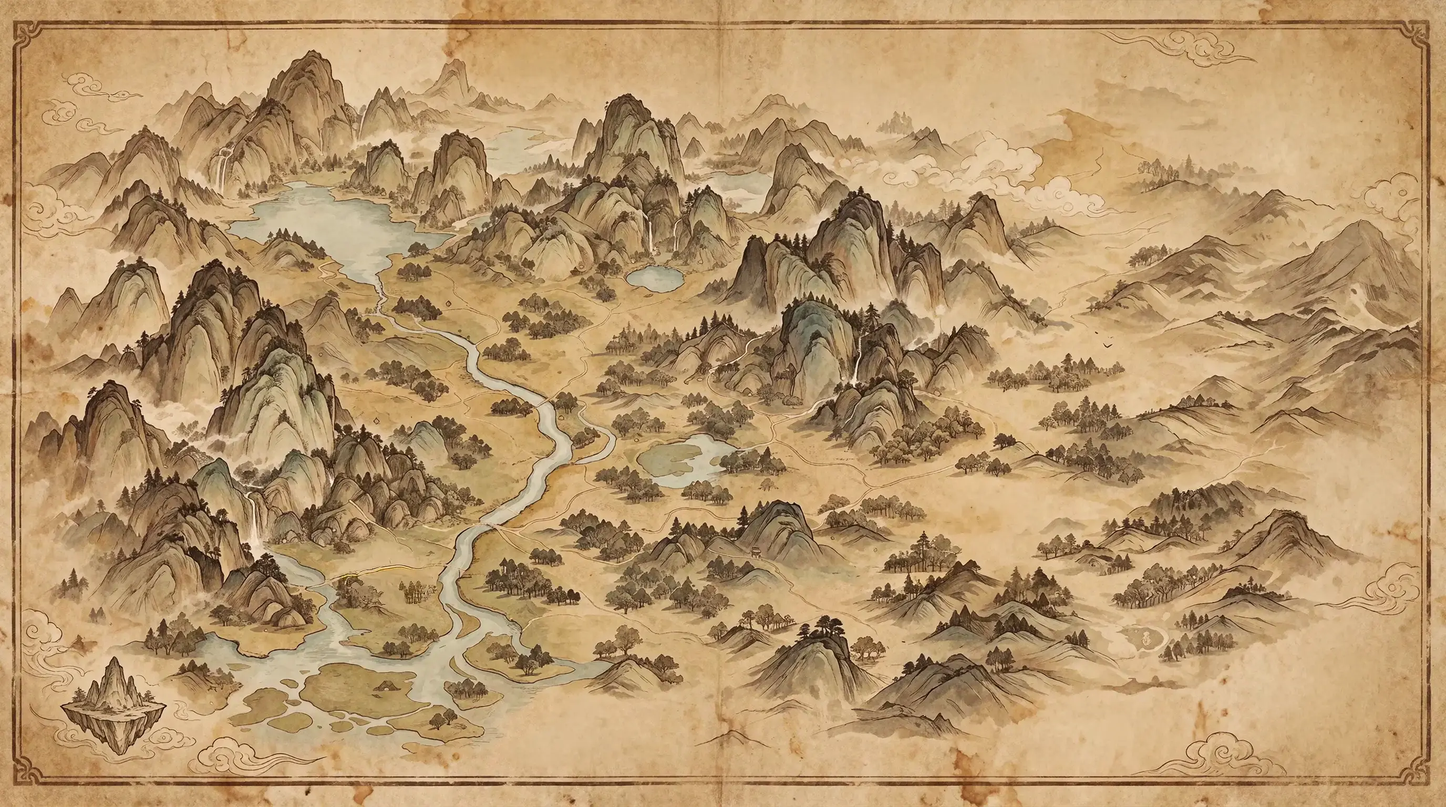
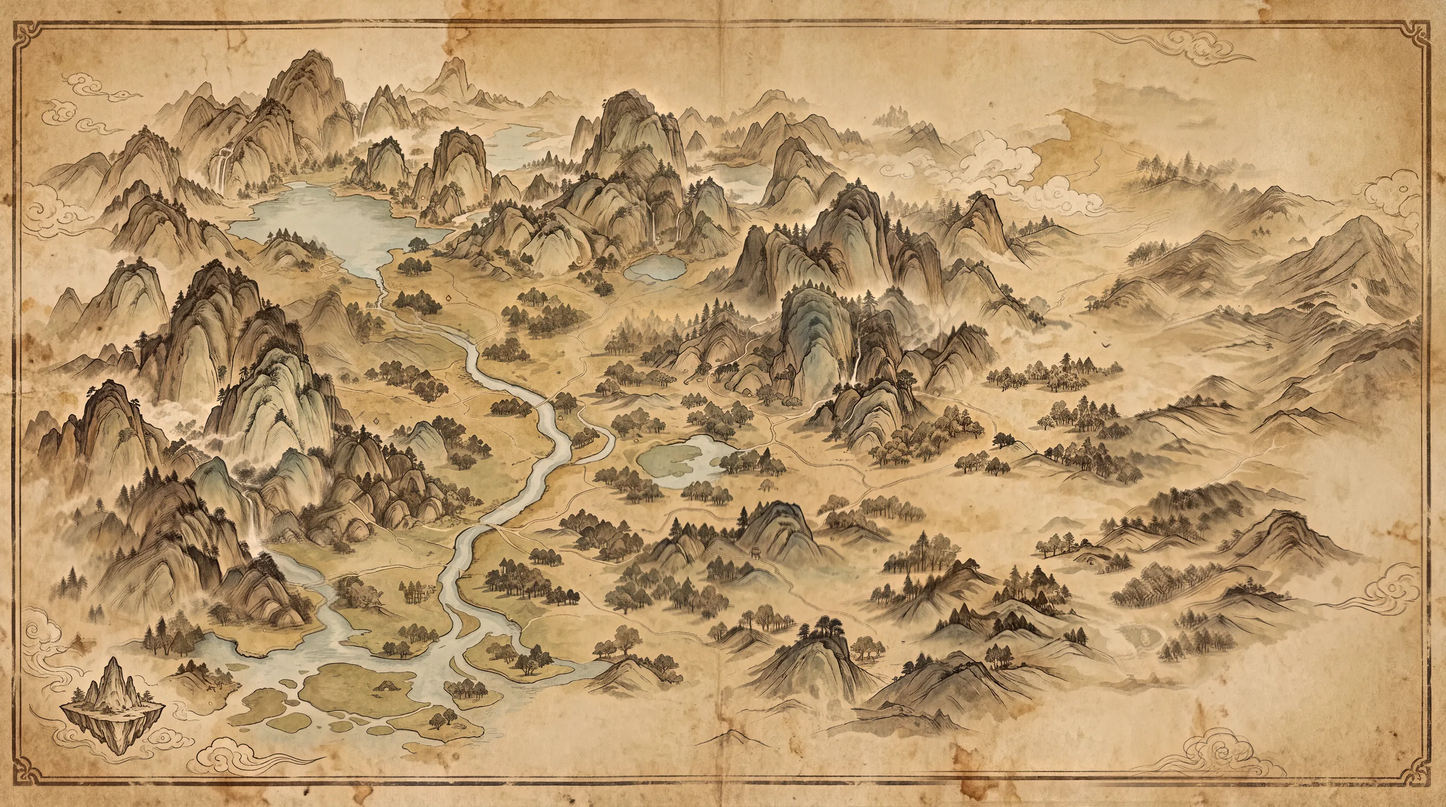
Bản đồ: vẽ lại bản đã khám phá và chưa khám phá bằng Qwen 2.1 đầy đủ, nét sắc hơn, cỡ 4128x2304, giữ nguyên địa hình; công cụ ban-do-ve-lai.py, thu-model.py

diff --git a/tools/ban-do-ve-lai.py b/tools/ban-do-ve-lai.py
@@ -1,0 +1,67 @@
+# Vẽ lại bản đồ đã khám phá bằng Qwen Image 2.1 (bản đầy đủ) theo từng mảnh có gối, giữ nguyên vị trí địa hình,
+# phóng 1.5 lần; bản chưa khám phá làm ra từ bản mới (nét mờ) cho đồng bộ.
+# python tools/ban-do-ve-lai.py ve [i ...]   -> src/assets-goc/ban-do/ve/<i>.png  (mảnh)
+# python tools/ban-do-ve-lai.py ghep          -> ghép mảnh thành ảnh mới (scratchpad/OUT)
+import json, os, sys, time, urllib.request, importlib.util
+import numpy as np
+from PIL import Image
+sp = importlib.util.spec_from_file_location('nv', 'tools/nv-comfy.py'); nv = importlib.util.module_from_spec(sp); sp.loader.exec_module(nv)
+AN = os.environ.get('BAN') == 'an'  # BAN=an: vẽ lại bản CHƯA khám phá từ chính nó (giữ kiểu phác mờ và hình trang trí)
+SRC = 'src/assets-goc/ban-do/' + ('Hidden-map.webp' if AN else 'Hidden-map - Backup.webp'); TMP = 'src/assets-goc/ban-do/' + ('ve-an/' if AN else 've/'); os.makedirs(TMP, exist_ok=True)
+W, H, T, OV = 4128, 2304, 1024, 160
+xs = list(range(0, W - T, T - OV)) + [W - T]; ys = list(range(0, H - T, T - OV)) + [H - T]
+TILES = [(x, y) for y in ys for x in xs]
+P = ('Repaint this piece of a hand-painted old sepia parchment ink-wash fantasy map at higher quality and sharper resolution. '
+     'Keep the composition EXACTLY: every mountain, ridge, river, lake, road, tree and cloud stays at the same position, same size and same shape; do not add or remove anything, do not move anything. '
+     'Use crisp, confident brown-black ink linework with natural brush strokes, soft sepia and faded grey-green ink washes on aged paper, consistent with a classical Chinese shan-shui map. No text.')
+if AN: P = ('Repaint this piece of a faded old sepia parchment sketch map at higher quality and sharper resolution. '
+     'Keep the composition EXACTLY: every mountain, river, tree, building, creature and ornament stays at the same position, same size and same shape; do not add or remove anything. '
+     'Keep it a light, faded, delicate pencil-and-ink sketch on stained aged paper: thin pale brown lines, very light washes, low contrast, same pale colors as the original. No new text.')
+def ve(ids):
+    big = Image.open(SRC).convert('RGB').resize((W, H), Image.BICUBIC)
+    pend = []
+    for i in ids:
+        x, y = TILES[i]; fn = nv.upload(f'bd-ve-{"an-" if AN else ""}{i}.png', big.crop((x, y, x + T, y + T)))
+        w = nv.wf(fn, P, 900 + i, f'bd-ve-{"an-" if AN else ""}{i}')
+        w['1']['inputs']['unet_name'] = 'qwen-image-2.1-UC-int8_convrot.safetensors'
+        w['12'] = {'class_type': 'BasicScheduler', 'inputs': {'model': ['2', 0], 'scheduler': 'simple', 'steps': 25, 'denoise': 1.0}, '_meta': {'title': 'Scheduler'}}
+        w['8']['inputs']['resolution'] = T
+        pend.append((i, nv.post('/prompt', json.dumps({'prompt': w}).encode(), 'application/json')['prompt_id']))
+    for i, pid in pend:
+        while True:
+            hi = json.load(urllib.request.urlopen(f'{nv.URL}/history/{pid}')).get(pid)
+            if hi and hi.get('outputs'): break
+            if hi and hi.get('status', {}).get('status_str') == 'error': raise SystemExit(f'loi {i}')
+            time.sleep(3)
+        f = hi['outputs']['15']['images'][0]
+        urllib.request.urlretrieve(f"{nv.URL}/view?filename={f['filename']}&subfolder={f.get('subfolder','')}&type=output", TMP + f'{i}.png')
+        print('xong', i, Image.open(TMP + f'{i}.png').size, flush=True)
+def mo(a, r=24):
+    from PIL import ImageFilter
+    return np.asarray(Image.fromarray(a.astype(np.uint8)).filter(ImageFilter.GaussianBlur(r)), np.float32)
+def ghep(out):
+    big = np.asarray(Image.open(SRC).convert('RGB').resize((W, H), Image.BICUBIC), np.float32)
+    acc = np.zeros((H, W, 3), np.float32); wt = np.zeros((H, W, 1), np.float32)
+    r = np.minimum(np.arange(T) + 1, T - np.arange(T)).astype(np.float32); r = np.clip(r / OV, 0.02, 1)
+    m = (r[:, None] * r[None, :])[..., None]
+    for i, (x, y) in enumerate(TILES):
+        t = np.asarray(Image.open(TMP + f'{i}.png').convert('RGB').resize((T, T), Image.LANCZOS), np.float32)
+        g = big[y:y + T, x:x + T]; t = t - mo(t) + mo(g)  # giữ tông màu mảng lớn của bản cũ, lấy nét mới
+        acc[y:y + T, x:x + T] += t * m; wt[y:y + T, x:x + T] += m
+    Image.fromarray(np.clip(acc / wt, 0, 255).astype(np.uint8)).save(out)
+def an(src, out):
+    """Bản chưa khám phá: nét của bản mới in mờ lên giấy trơn (Transition-map), không màu."""
+    a = np.asarray(Image.open(src).convert('RGB'), np.float32) / 255
+    L = a @ np.array([0.3, 0.59, 0.11], np.float32)
+    nen = mo(L[..., None].repeat(3, 2) * 255, 40)[..., 0] / 255
+    muc = np.clip((nen - L) / np.maximum(nen, 0.2), 0, 1) ** 0.9   # độ đậm nét so với giấy quanh nó
+    giay = np.asarray(Image.open('src/assets-goc/ban-do/Transition-map.webp').convert('RGB').resize((a.shape[1], a.shape[0]), Image.BICUBIC), np.float32) / 255
+    mau = np.array([0.33, 0.24, 0.15], np.float32)  # mực nâu nhạt
+    o = giay * (1 - 0.62 * muc[..., None]) + mau * 0.62 * muc[..., None] * 0.35
+    Image.fromarray(np.clip(o * 255, 0, 255).astype(np.uint8)).save(out)
+if __name__ == '__main__':
+    c = sys.argv[1]
+    if c == 've': ve([int(a) for a in sys.argv[2:]] or list(range(len(TILES))))
+    elif c == 'ghep': ghep(sys.argv[2])
+    elif c == 'an': an(sys.argv[2], sys.argv[3])
+    print(len(TILES), 'manh')

diff --git a/tools/thu-model.py b/tools/thu-model.py
@@ -1,0 +1,58 @@
+# So sánh mô hình: vẽ thành / tông môn / xóm lên một mảnh bản đồ thật (đã khám phá) ở độ phân giải cao.
+# python tools/thu-model.py turbo full h3   -> scratchpad/thu-<model>.png
+import json, os, sys, time, urllib.request, importlib.util
+from PIL import Image, ImageDraw
+sp = importlib.util.spec_from_file_location('nv', 'tools/nv-comfy.py'); nv = importlib.util.module_from_spec(sp); sp.loader.exec_module(nv)
+OUT = os.environ.get('OUT', '.') + '/'
+M = Image.open('src/assets-goc/ban-do/Hidden-map - Backup.webp').convert('RGB')
+X0, Y0, W, H, K = 1700, 640, 540, 360, 1536 / 540
+base = M.crop((X0, Y0, X0 + W, Y0 + H)).resize((1536, 1024), Image.LANCZOS)
+MARK = [((140, 125), (58, 36)), ((55, 70), (42, 36)), ((260, 322), (36, 22))]
+mk = base.copy(); d = ImageDraw.Draw(mk)
+for (cx, cy), (rx, ry) in MARK: d.ellipse(((cx - rx) * K, (cy - ry) * K, (cx + rx) * K, (cy + ry) * K), outline=(220, 30, 30), width=6)
+mk.save(OUT + 'thu-dau-vao.png')
+P = ('This is a hand-painted old sepia ink-wash fantasy world map seen from a high oblique bird\'s-eye view. There are three red oval marks. '
+     'Inside the large red oval in the plain, paint a small walled Chinese town: grey stone city wall with a gate tower, tiled roofs packed inside. '
+     'On the mountain inside the upper-left red oval, paint a cultivation sect: a few temple halls with curved roofs on terraces and a stairway. '
+     'Inside the small red oval at the bottom, paint a tiny hamlet of four thatched cottages. '
+     'Paint them exactly in the style of this map: the same brown-black ink lines, the same loose brush texture, the same muted sepia and faded grey-green washes, '
+     'the same viewing angle and perspective as the trees and mountains, the same scale (buildings small like the trees). '
+     'Remove the red marks completely, keep everything else unchanged. No text.')
+T = lambda ct, ins, t: {'class_type': ct, 'inputs': ins, '_meta': {'title': t}}
+def wf_qwen(img, seed, full):
+    w = nv.wf(img, P, seed, 'thu-' + ('full' if full else 'turbo'))
+    if full:
+        w['1']['inputs']['unet_name'] = 'qwen-image-2.1-UC-int8_convrot.safetensors'
+        w['12'] = T('BasicScheduler', {'model': ['2', 0], 'scheduler': 'simple', 'steps': 25, 'denoise': 1.0}, 'Scheduler')
+    w['8']['inputs']['resolution'] = 1536
+    return w
+def wf_h3(img, seed):
+    return {
+        '29': T('UNETLoader', {'unet_name': 'PinkCherry_fl2va_MiniMax_H3_int8_convrot-beta-0.6.safetensors', 'weight_dtype': 'default'}, 'H3'),
+        '30': T('CLIPLoader', {'clip_name': 'qwen3vl_32b_heretic_minimax_h3_nvfp4.safetensors', 'type': 'minimax', 'device': 'default'}, 'Text encoder'),
+        '31': T('VAELoader', {'vae_name': 'minimax_h3_t1_image_vae_step1597.safetensors'}, 'VAE'),
+        '45': T('LoadImage', {'image': img}, 'Input'),
+        '32': T('MiniMaxH3ImageConditioning', {'clip': ['30', 0], 'vae': ['31', 0], 'prompt': P.replace('This is', '<Picture 1> is'), 'width': 1536, 'height': 1024, 'images.image_1': ['45', 0]}, 'Cond'),
+        '33': T('ConditioningZeroOut', {'conditioning': ['32', 0]}, 'Neg'),
+        '38': T('KSampler', {'model': ['29', 0], 'positive': ['32', 0], 'negative': ['33', 0], 'latent_image': ['32', 1], 'seed': seed, 'control_after_generate': 'fixed', 'steps': 12, 'cfg': 1, 'sampler_name': 'euler', 'scheduler': 'simple', 'denoise': 1}, 'Sample'),
+        '42': T('VAEDecode', {'samples': ['38', 0], 'vae': ['31', 0]}, 'Decode'),
+        '15': T('SaveImage', {'images': ['42', 0], 'filename_prefix': 'thu-h3'}, 'Save'),
+    }
+fn = nv.upload('thu-dau-vao.png', mk)
+for m in sys.argv[1:]:
+    w = wf_h3(fn, 7) if m == 'h3' else wf_qwen(fn, 7, m == 'full')
+    w = {k: v for k, v in w.items()}
+    for v in w.values(): v['inputs'].pop('control_after_generate', None)
+    try: r = nv.post('/prompt', json.dumps({'prompt': w}).encode(), 'application/json')
+    except urllib.error.HTTPError as e: r = {'err': e.read().decode()[:900]}
+    if 'prompt_id' not in r: print(m, 'LOI', json.dumps(r)[:600]); continue
+    pid = r['prompt_id']; t = time.time()
+    while True:
+        hi = json.load(urllib.request.urlopen(f'{nv.URL}/history/{pid}')).get(pid)
+        if hi and hi.get('outputs'): break
+        if hi and hi.get('status', {}).get('status_str') == 'error': print(m, 'LOI', json.dumps(hi['status'])[:800]); break
+        time.sleep(3)
+    if hi and hi.get('outputs'):
+        f = hi['outputs']['15']['images'][0]
+        urllib.request.urlretrieve(f"{nv.URL}/view?filename={f['filename']}&subfolder={f.get('subfolder','')}&type=output", OUT + 'thu-' + m + '.png')
+        print(m, 'xong', int(time.time() - t), 's', flush=True)

diff --git a/tools/o-comfy.py b/tools/o-comfy.py
@@ -14,13 +14,14 @@ def hexpts(cx, cy, r): return [(cx + r * np.cos(np.radians(a)), cy + r * np.sin(
 # chỗ lấy nền: điểm (x,y) trên ảnh bản đồ gốc theo loại đất cần nền
 NEN = {'dong': (2300, 860), 'nui': (1540, 700), 'rung': (1200, 1125), 'nuoc': (1300, 872)}
 def nen(k):
-    x, y = NEN[k]; s = 46  # ~2 ô bản đồ mỗi bên -> phóng lên 512
+    x, y = NEN[k]; s = 46  # 92px gốc ~ 4 ô  # ~2 ô bản đồ mỗi bên -> phóng lên 512
     return MAP.crop((x - s, y - s, x + s, y + s)).resize((N, N), Image.BICUBIC).filter(ImageFilter.SMOOTH)
-P = ('Image 1 is an old sepia parchment ink-wash fantasy world map with a red hexagon outline drawn on it. Paint {t} INSIDE the red hexagon, '
-     'in exactly the same painting style, colors and brushwork as the surrounding map, as if it was always part of this painted map. '
-     'The painted things have a natural organic outline (NOT a hexagon-shaped block), with small gaps of map ground between them. Remove the red outline completely. Keep everything outside the hexagon unchanged. High bird view. No text.')
+P = ('Image 1 is a zoomed-in piece of an old sepia ink-wash fantasy world map, with a soft red oval mark in the middle. Paint {t} at the red mark, '
+     'about the size of the mark, with an irregular natural outline. Use the SAME loose, soft, coarse brush strokes and the same faded sepia ink tones as the surrounding map; '
+     'it must look painted by the same hand at the same scale, slightly blurry like the rest, not sharper, not more detailed, no bright colors. '
+     'Remove the red mark completely. Keep everything else unchanged. High bird view. No text.')
 def lam(ten, txt, loai, seed):
-    b = nen(loai); m = b.copy(); ImageDraw.Draw(m).polygon(hexpts(N / 2, N / 2, R), outline=(230, 20, 20), width=5)
+    b = nen(loai); m = b.copy(); ImageDraw.Draw(m).ellipse((N/2-R*0.62, N/2-R*0.5, N/2+R*0.62, N/2+R*0.5), outline=(220, 40, 30), width=4)
     fn = nv.upload('o2-' + ten + '.png', m)
     pid = nv.post('/prompt', json.dumps({'prompt': nv.wf(fn, P.format(t=txt), seed, 'o2-' + ten)}).encode(), 'application/json')['prompt_id']
     return ten, b, pid
@@ -35,12 +36,12 @@ def lay(ten, b, pid):
 def tach(ten, b):
     a = Image.open(G + ten + '.png').convert('RGB').resize((N, N))
     # mặt nạ: lục giác nới 12%, mép mờ; nhân với độ đổi màu so với nền (chỗ không vẽ gì -> trong suốt)
-    hm = Image.new('L', (N, N), 0); ImageDraw.Draw(hm).polygon(hexpts(N / 2, N / 2, R * 1.12), fill=255); hm = np.asarray(hm.filter(ImageFilter.GaussianBlur(14))) / 255
+    hm = Image.new('L', (N, N), 0); ImageDraw.Draw(hm).ellipse((N/2-R*0.95, N/2-R*0.85, N/2+R*0.95, N/2+R*0.8), fill=255); hm = np.asarray(hm.filter(ImageFilter.GaussianBlur(28))) / 255  # tròn, mép loang, không theo hình ô
     d = np.abs(np.asarray(a, np.float32) - np.asarray(b, np.float32)).max(axis=2)
     d = np.asarray(Image.fromarray(np.clip(d * 3, 0, 255).astype(np.uint8)).filter(ImageFilter.MinFilter(9)).filter(ImageFilter.MaxFilter(13)).filter(ImageFilter.GaussianBlur(4)), np.float32) / 255
     al = np.clip(hm * np.clip(d * 1.6, 0, 1), 0, 1)
     o = Image.fromarray(np.dstack([np.asarray(a), (al * 255).astype(np.uint8)]))
-    c = int(R * 1.3); o = o.crop((N // 2 - c, N // 2 - c - 10, N // 2 + c, N // 2 + c - 10)).resize((192, 192), Image.LANCZOS)
+    o = o.resize((184, 184), Image.LANCZOS).filter(ImageFilter.GaussianBlur(0.4)).crop((46, 40, 138, 132))  # 92px = 2 ô, đúng độ nét bản đồ gốc x2
     o.save('src/assets/ui/o-' + ten + '.webp', 'WEBP', quality=86, method=6); print('xong', ten, flush=True)
 O = {k: v for k, v in dd.O.items()}
 LOAI = {'ho': 'nuoc', 'song': 'nuoc', 'bien': 'nuoc', 'dam': 'nuoc', 'nui-1': 'nui', 'nui-2': 'nui', 'hang': 'nui', 'khoang': 'nui', 'tnui': 'nui', 'ai': 'nui', 'thien': 'nui', 'dthien': 'nui', 'rung-1': 'rung', 'rung-2': 'rung'}

diff --git a/CLAUDE.md b/CLAUDE.md
@@ -64,3 +64,4 @@ Người dùng không phải lập trình viên: trả lời ngắn, ít thuật
 - **Ảnh nhân vật ngồi thiền** (210 ảnh webp ở src/assets/nv → anh-nv/, tạo bằng tools/nv-comfy.py + ComfyUI Qwen 2.1): đọc `docs/thiet-ke/anh-nhan-vat.md` trước khi sửa. Ảnh đứng yên, không thêm lớp ảnh bản sao có mặt nạ (gây vệt lệch).
 - **PC thẻ Nhân vật**: Căn cơ gộp vào thẻ Trang bị (`TrangBi gop canCo=`), chỉ số bên trái, hình nhân vật + đan điền + pháp khí bên phải; pháp bảo là ô tròn trên cung phía trên nhân vật (`PhapBaoCung`, cả điện thoại); bộ trang bị + chỉ số chung một thanh trượt `.tb-cuon`.
 - **Địa điểm trên bản đồ ghép từ từng ô**: mỗi ô lục giác của nơi là một ảnh `o-<tên>.webp` (192px). Tạo bằng `python tools/o-comfy.py [tên]`: cắt mảnh bản đồ đã khám phá (`Hidden-map - Backup.webp`, đúng ảnh game vẽ), vẽ khung lục giác đỏ, Qwen vẽ vật vào trong, rồi chỉ giữ phần thay đổi (so trước/sau, lọc nét mảnh) nên hoà vào bản đồ; `tach` để tách lại không vẽ lại, `SEED=` đổi hạt giống. Lời tả từng ô ở `O` trong tools/dd-comfy.py. PNG gốc ở src/assets-goc/dia-diem không lưu git. Chọn ảnh từng ô: `oTiles()` ở ui/05-gfx.js (thành: điện ở ô gốc + chợ/tháp/miếu + phố; trấn; tông môn có cổng ở ô thấp nhất; hoang dã theo loại đất ô `O_TER`). Tường đá (thành) / rào gỗ (trấn ≥3 ô) vẽ bằng canvas theo mép ngoài cụm ô: `oWall()`. Ảnh map-* cũ chỉ còn dự phòng. Bài `anh_ban_do`; chụp xem: `o_ban_do_anh --shot`.
+- **Ảnh bản đồ** (`Hidden-map - Backup.webp` = đã khám phá, `Hidden-map.webp` = chưa khám phá, phác mờ có trang trí, cố ý): vẽ lại bằng Qwen Image 2.1 bản đầy đủ (`qwen-image-2.1-UC`, 25 bước) theo 15 mảnh gối nhau, giữ nguyên vị trí địa hình (MAPD lấy từ ảnh nên không được dời), cỡ gốc 4128×2304, bản nén 2752: `python tools/ban-do-ve-lai.py ve` rồi `ghep <ra.png>`; `BAN=an` cho bản chưa khám phá (vẽ từ chính nó, không từ bản đã mở). Ghép giữ tông màu mảng lớn của bản cũ. Thử mô hình: tools/thu-model.py (MiniMax H3 cần cập nhật ComfyUI).
